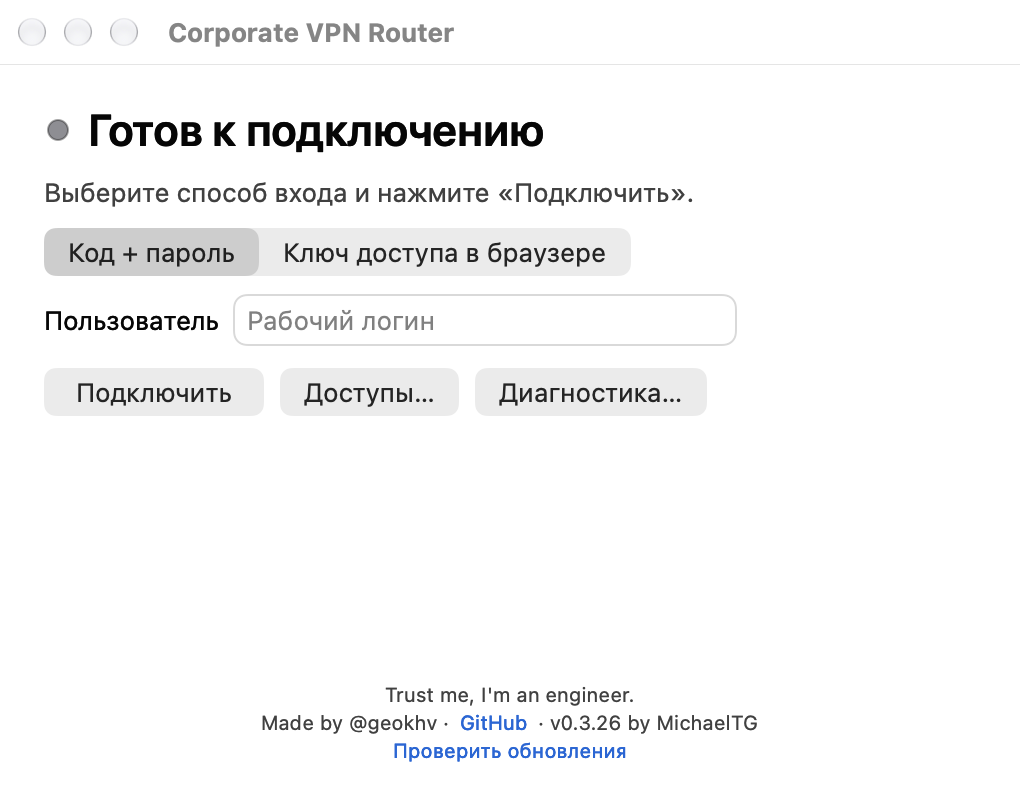
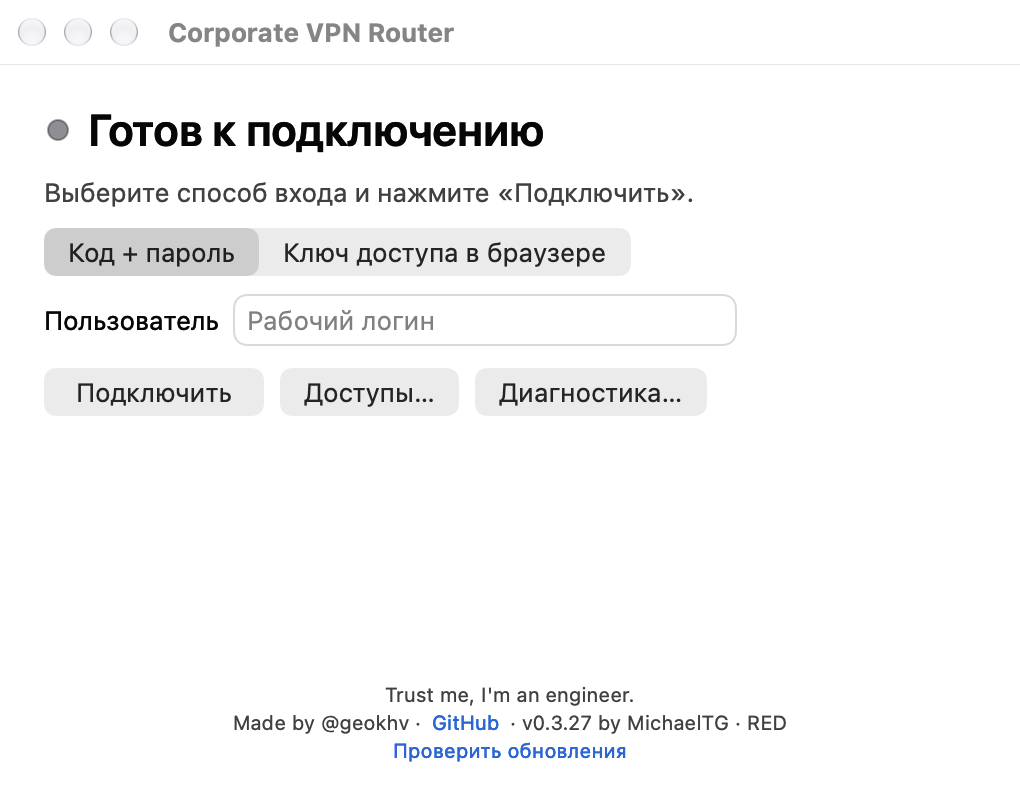
Record Red address migration policy and edition label [skip ci]

Changed region(s): [[0.2127, 0.8832, 0.7598, 0.9442]]

diff --git a/AGENTS.md b/AGENTS.md
@@ -16,3 +16,5 @@
 У RED и WHITE одного выпуска одинаковые VERSION, CFBundleShortVersionString, CFBundleVersion и подпись автора. Указывай RED или WHITE в интерфейсе и заголовках релизов. RED содержит рабочий профиль и подписанные обновления рабочих адресов. WHITE не содержит этих данных.
 
 Существующая подписанная лента `update-channel/appcast.xml` предназначена для RED и всех установок, выпущенных до разделения. WHITE использует отдельную подписанную ленту `update-channel-white/appcast.xml`. Обновляй оба канала в одном выпуске и проверяй, что каждый предлагает последнюю совместимую сборку своей редакции. Промежуточный переход нужен только при проверенной зависимости миграции.
+
+Когда в RED меняются рабочие адреса, включай их и в стартовый профиль, и в миграцию существующей установки. Каждому новому набору изменений нужен собственный идентификатор применения: ранее применённые правила могут быть изменены или удалены пользователем. Перед публикацией проверяй прямое обновление из действующего канала и перенос правил на копии предыдущего профиля.
